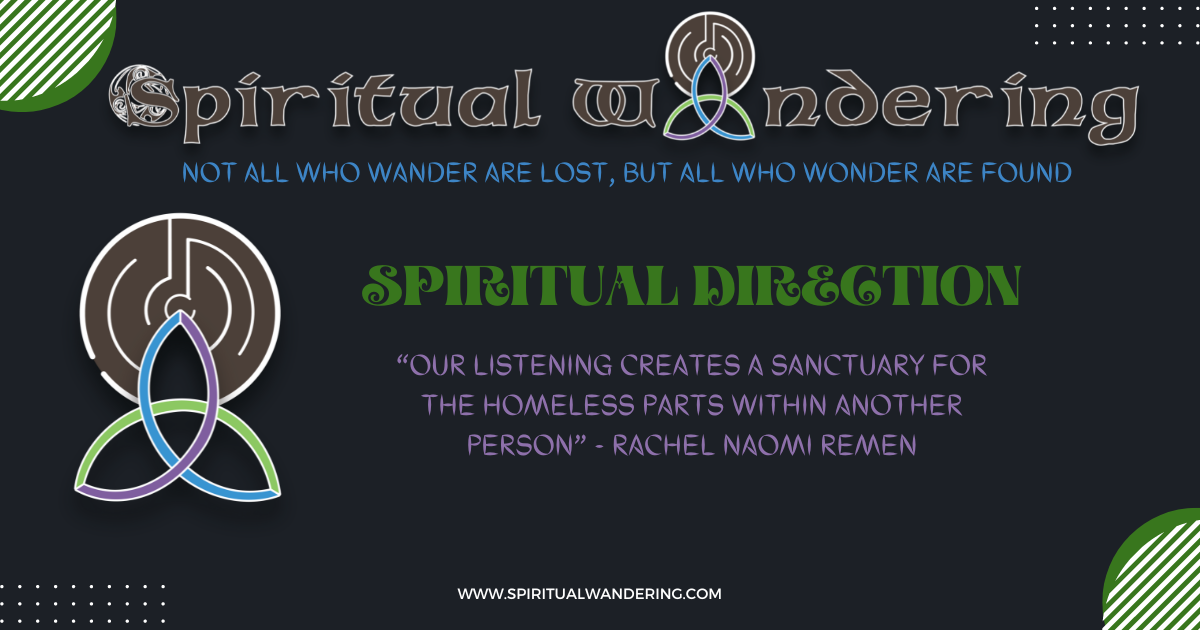
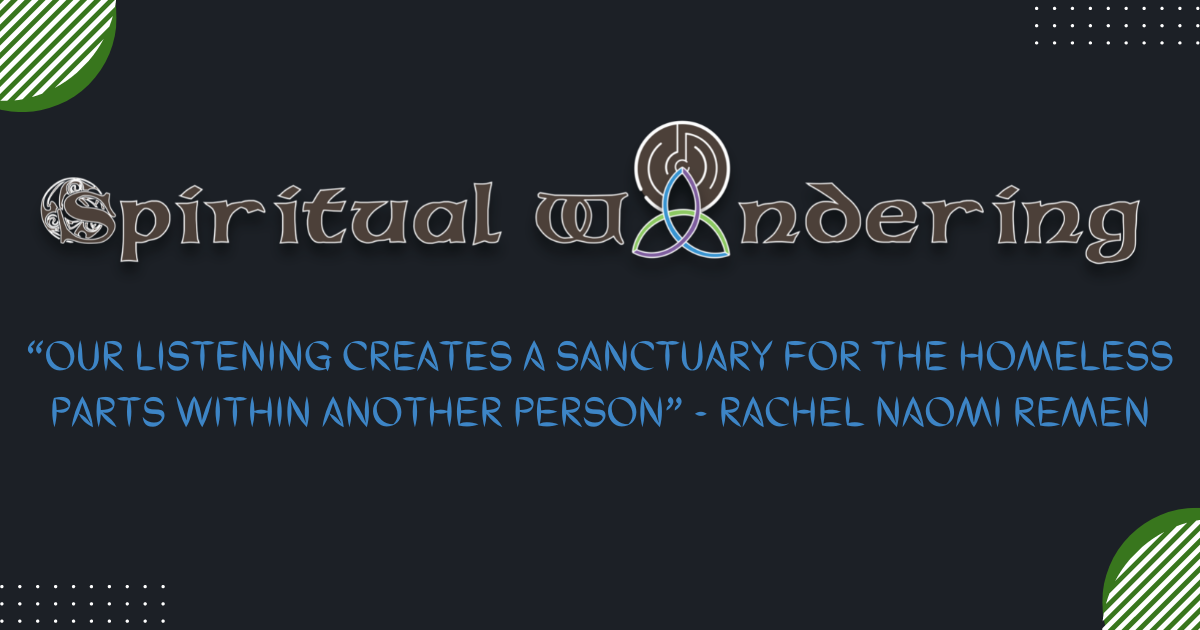
nav bar added

Changed region(s): [[0.0308, 0.0, 0.9867, 0.8143], [0.37, 0.9349, 0.6167, 0.9651]]

diff --git a/style.css b/style.css
@@ -5,7 +5,7 @@
 }
 html {
     height: 100%;
-    overflow: hidden;
+    overflow: hidden; 
 }
 
 body { 
@@ -18,8 +18,14 @@ body {
 }
 
 
+
+
 header {
     height: 50%;
+} 
+
+.header-background {
+    height: 100%;
     background-image: linear-gradient(rgba(0, 0, 0, 0.5), rgba(0, 0, 0, 0.5)), url(assets/Hero.png);
     background-position:  right 15% ;
     background-repeat: no-repeat;
@@ -27,8 +33,49 @@ header {
     position: relative;
     font-size: x-large;
     z-index: -1;
-    background-attachment: fixed;   
-    
+    background-attachment: fixed;  
+}
+
+nav {
+    height: 0px;
+    background-color: #4b3e36;
+    position: sticky;
+    top: -0; 
+    margin: 0;
+    padding: 0;
+    z-index: 2;
+    width: 100%;
+    margin-left: auto;
+    margin-right: auto;
+}
+
+
+nav ul {
+    display: flex;
+    height: 40px;
+    background-color: #4b3e36;
+    justify-content: space-evenly;
+    width: 100%;
+    padding: 0;
+    margin: 0;
+    align-items: center;
+  
+}
+
+nav li {
+    list-style-type: none;
+    padding: 0px 20px;
+    color: #ffff;
+    transition: all .2s ease-in-out;    
+}
+
+nav li:hover {
+    transform: scale(1.5);
+}
+
+nav a {
+    text-decoration: none;
+    font-size: 1.2em;
 }
 
 main {
@@ -36,15 +83,17 @@ main {
     width: 100%;
     position: relative;
     z-index: 1;
-    max-width: 1500px;
+    
     margin-right: auto;
     margin-left: auto;
-    
     
 }
 
 section {
     padding: 10px 40px;
+    max-width: 1500px;
+    margin-right: auto;
+    margin-left: auto;
 }
 
 
@@ -390,6 +439,10 @@ footer p, footer a {
         background-image: none;
         height: auto;
     }
+    .header-background {
+        background-image: none;
+        height: auto;
+    }
     #logotagline > h5 {
         color: #805ea0;
         font-size: 10px;
@@ -398,6 +451,8 @@ footer p, footer a {
     .button_row button {
         margin-bottom: 20px;
     }
-    
+    .flex_foot {
+        display: none;
+    }
     
 }

diff --git a/booking.html b/booking.html
@@ -33,7 +33,7 @@
 <body>
 <a href="index.html" class="nodec">
 <header>
-    
+    <div class="header-background">
     <div id="logowtext">
         
         <img src="assets/SWLOGOwText.png" alt="Spiritual Wandering in Celtic Script with the Triquetra & Labyrinth Logo in place of the A">
@@ -44,13 +44,24 @@
     <div id="logotagline">
         <h5>not all who wander are lost, but all who wonder are found</h5>
     </div>
-
+    </div>
    
 </header>
 </a>
 
 <main>
-<section> 
+
+<nav>   
+    <ul>
+        <a href="index.html"><li>Home</li></a>
+        <a href="booking.html"><li>Booking</li></a>
+        <!--<li>About Me</li> -->
+        <a href="faq.html"><li>F.A.Q.</li></a>     
+        <!-- <li>Contact</li> -->
+    </ul> 
+</nav>
+
+<section class="high_top"> 
     <h1 class="center">Book a Session</h1>
     <p>You can book a Spiritual Direction or Enneagram Coaching session below.  The sessions are each 45-60 minutes long.  My standard rate is $60 for each session, but I believe that everyone should have access to these practices, so let me know if we need to discuss a needs-based modified fee.  I can also meet at special locations, by request, for a small fee.  You can book a free 15-minute consultation with me if you have questions or special requests.  I block off 15 minutes before and after each standard session for prayer and reflection to ensure that you have my undivided attention during our time together.  Please be sure to bring a topic that you would like to explore.  If you need an idea of what we can talk about, check out our <a href="faq.html">F.A.Q.</a></p>
 </section>

diff --git a/index.html b/index.html
@@ -21,25 +21,42 @@
         </script>
 </head>
 <body>
-<a href="index.html" class="nodec">
+
 <header>
     
+  <a href="index.html" class="nodec">
+  <div class="header-background">
+        
     <div id="logowtext">
         
         <img src="assets/SWLOGOwText.png" alt="Spiritual Wandering in Celtic Script with the Triquetra & Labyrinth Logo in place of the A">
-       
-    </div>
-    
         
+    </div>
+
+        
+    
     <div id="logotagline">
         <h1>Spiritual Wandering</h1>
         <h5>not all who wander are lost, but all who wonder are found</h2>
     </div>
-
-   
+    
+  </div>
+  </a>
 </header>
-</a>
+
+
+
 <main>
+
+<nav>   
+    <ul>
+        <a href="index.html"><li>Home</li></a>
+        <a href="booking.html"><li>Booking</li></a>
+        <!--<li>About Me</li> -->
+        <a href="faq.html"><li>F.A.Q.</li></a>     
+        <!-- <li>Contact</li> -->
+    </ul> 
+</nav>
 
 <section> 
     <p class="squish_text high_top justifyleft">Are you ready to take the next steps on your spiritual journey?  Are you going through a season of discernment or deconstruction? Do you want help developing spiritual practices that feed your soul?  You could benefit from someone trained in holding sacred space and listening for the fingerprints of God in your narrative. Spiritual Wandering is a Spiritual Direction and Enneagram Coaching practice that aims to help you deepen your understanding of yourself and draw closer to the divine. </p>

diff --git a/agreement.html b/agreement.html
@@ -24,7 +24,7 @@
 <body>
 <a href="index.html" class="nodec">
 <header>
-    
+    <div class="header-background">
     <div id="logowtext">
         
         <img src="assets/SWLOGOwText.png" alt="Spiritual Wandering in Celtic Script with the Triquetra & Labyrinth Logo in place of the A">
@@ -35,13 +35,24 @@
     <div id="logotagline">
         <h5>not all who wander are lost, but all who wonder are found</h5>
     </div>
-
+    </div>
    
 </header>
 </a>
 
 <main>
-<section> 
+
+<nav>   
+    <ul>
+        <a href="index.html"><li>Home</li></a>
+        <a href="booking.html"><li>Booking</li></a>
+        <!--<li>About Me</li> -->
+        <a href="faq.html"><li>F.A.Q.</li></a>     
+        <!-- <li>Contact</li> -->
+    </ul> 
+</nav>
+
+<section class="high_top"> 
     <h1 class="center">Agreement</h1>
     <p>The following agreement is used for both Spiritual Direction and Enneagram Coaching.  It covers confidentiality, our cancellation policy, and a basic disclaimer stating that you understand that I am not a clinician and these services are not therapy.  Before your first session, please review and complete the following form.  After completing the form the system will send you a copy of the form and your answers.</p>
 

diff --git a/404.html b/404.html
@@ -22,7 +22,7 @@
 <body>
 <a href="index.html" class="nodec">
 <header>
-   
+    <div class="header-background">
     <div id="logowtext">
         <img src="assets/SWLOGOwText.png" alt="Spiritual Wandering in Celtic Script with the Triquetra & Labyrinth Logo in place of the A">
     </div>
@@ -30,13 +30,23 @@
     <div id="logotagline">
         <h5>not all who wander are lost, but all who wonder are found</h5>
     </div>
-
+    </div>
    
 </header>
 </a>
 <main>
 
-<section> 
+<nav>   
+    <ul>
+        <a href="index.html"><li>Home</li></a>
+        <a href="booking.html"><li>Booking</li></a>
+        <!--<li>About Me</li> -->
+        <a href="faq.html"><li>F.A.Q.</li></a>     
+        <!-- <li>Contact</li> -->
+    </ul> 
+</nav>
+
+<section class="high_top"> 
     <h1 class="center">404 Error</h1>
     <p class="center">We are sorry, the page you were looking for cannot be found.  Click the button below to go to the Home Page. </p>
     <br>

diff --git a/faq.html b/faq.html
@@ -22,7 +22,7 @@
 <body>
 <a href="index.html" class="nodec">
 <header>
-    
+    <div class="header-background">
     <div id="logowtext">
         
         <img src="assets/SWLOGOwText.png" alt="Spiritual Wandering in Celtic Script with the Triquetra & Labyrinth Logo in place of the A">
@@ -33,13 +33,24 @@
     <div id="logotagline">
         <h5>not all who wander are lost, but all who wonder are found</h5>
     </div>
-
+    </div>
    
 </header>
 </a>
 
 <main>
-<section>
+
+<nav>   
+    <ul>
+        <a href="index.html"><li>Home</li></a>
+        <a href="booking.html"><li>Booking</li></a>
+        <!--<li>About Me</li> -->
+        <a href="faq.html"><li>F.A.Q.</li></a>     
+        <!-- <li>Contact</li> -->
+    </ul> 
+</nav>
+
+<section class="high_top">
 <h1 class="center">Frequently Asked Questions</h1>
 <h3>How long are the sessions?</h3>
 <p class="squish_text">
